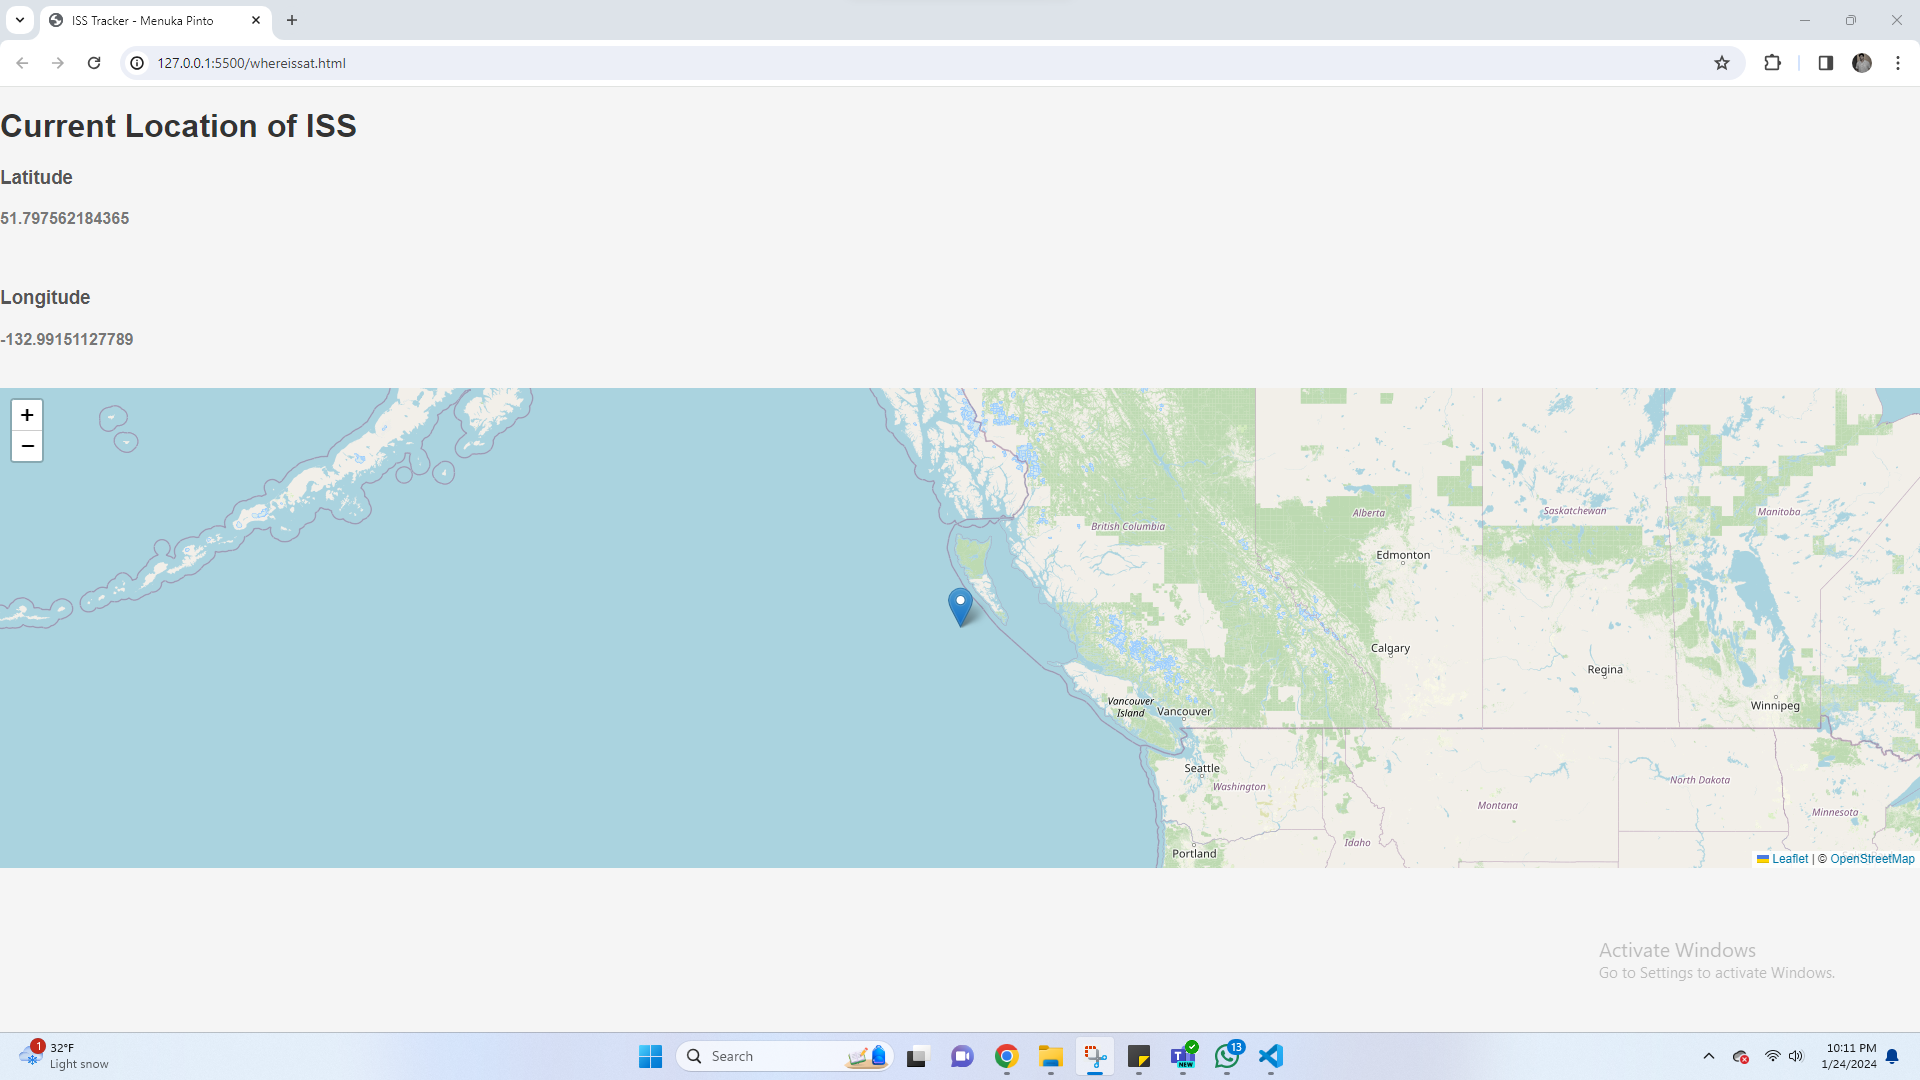
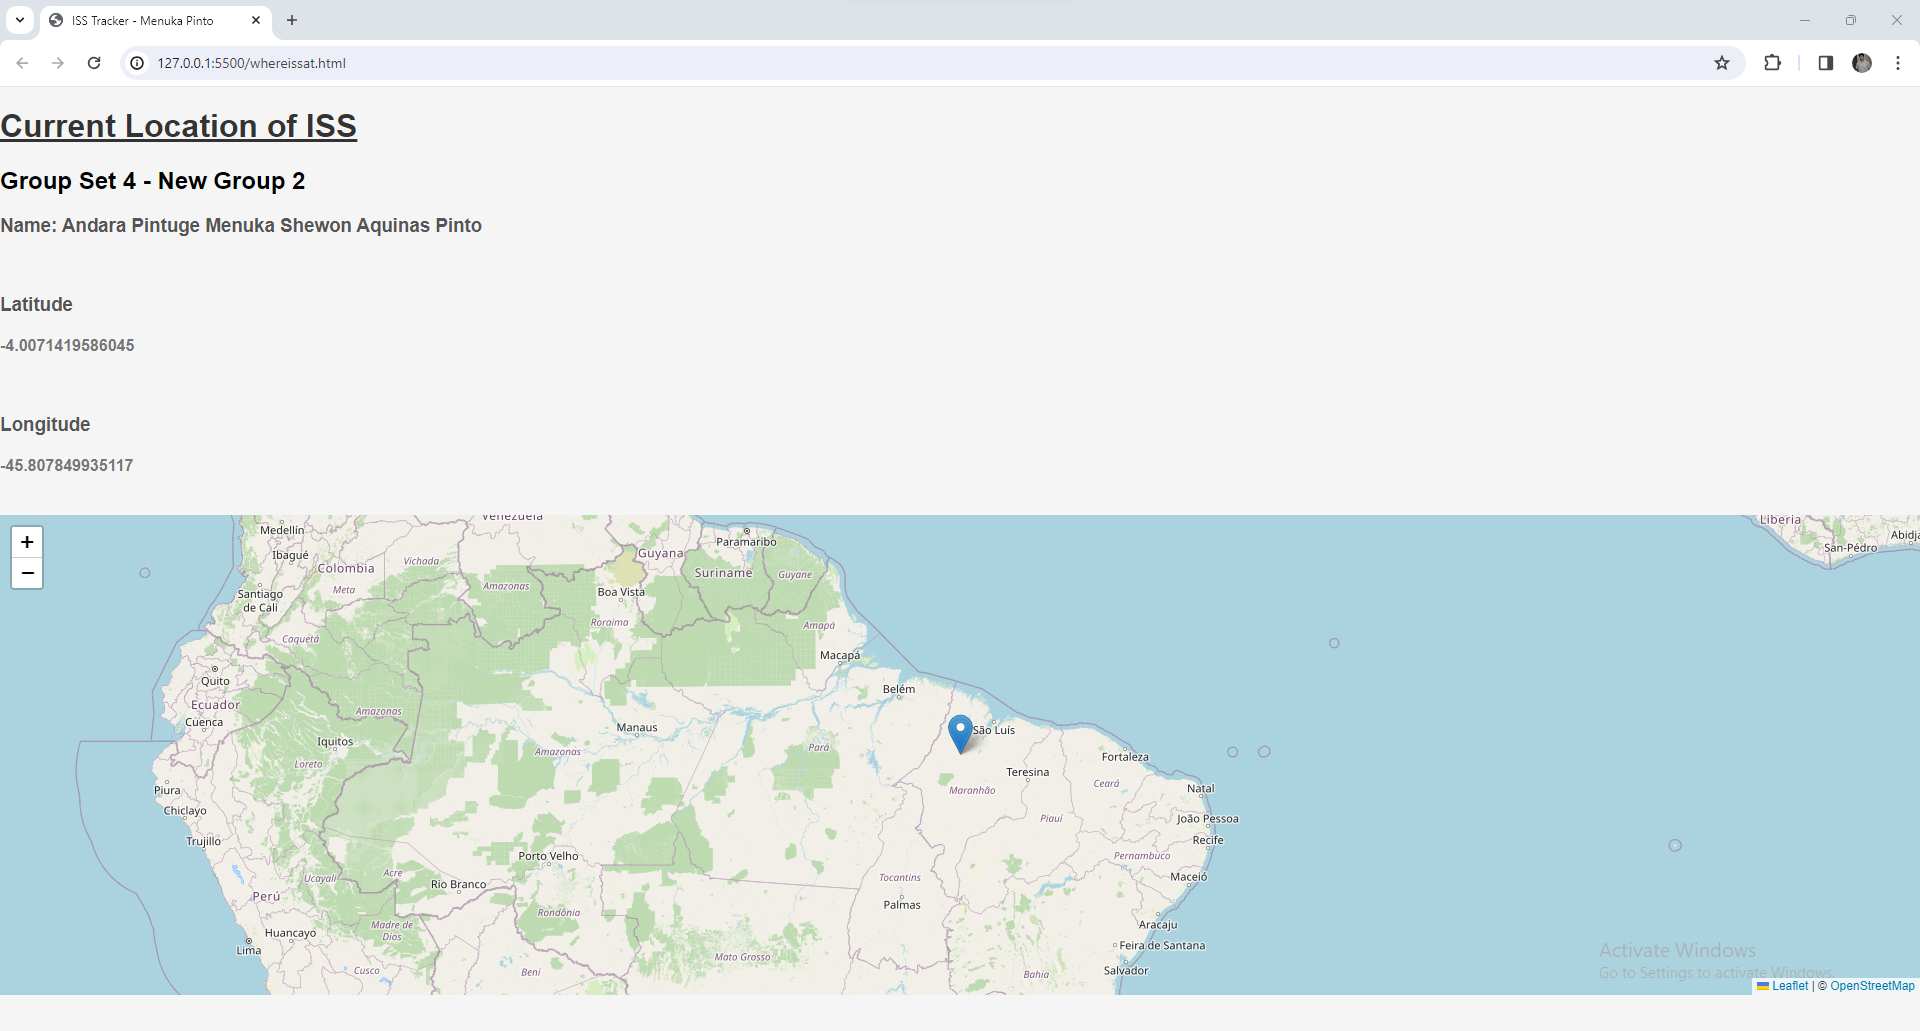
Made UI Changes

diff --git a/whereissat.html b/whereissat.html
@@ -5,7 +5,7 @@
     <meta charset="UTF-8">
     <meta name="viewport" content="width=device-width, initial-scale=1.0">
     <title>ISS Tracker - Menuka Pinto</title>
-    
+
     <link rel="stylesheet" href="https://unpkg.com/leaflet@1.9.4/dist/leaflet.css"
         integrity="sha256-p4NxAoJBhIIN+hmNHrzRCf9tD/miZyoHS5obTRR9BMY=" crossorigin="" />
 
@@ -15,6 +15,10 @@
 
 <body>
     <h1>Current Location of ISS</h1>
+
+    <h2>Group Set 4 - New Group 2</h2>
+    <h3>Name: Andara Pintuge Menuka Shewon Aquinas Pinto</h3>
+    <br>
 
     <h3>Latitude</h3>
     <h4 id="value2"></h4>

diff --git a/whereissat.css b/whereissat.css
@@ -17,6 +17,7 @@ body {
 
 h1 {
     color: #333;
+    text-decoration: underline;
 }
 
 h3 {
